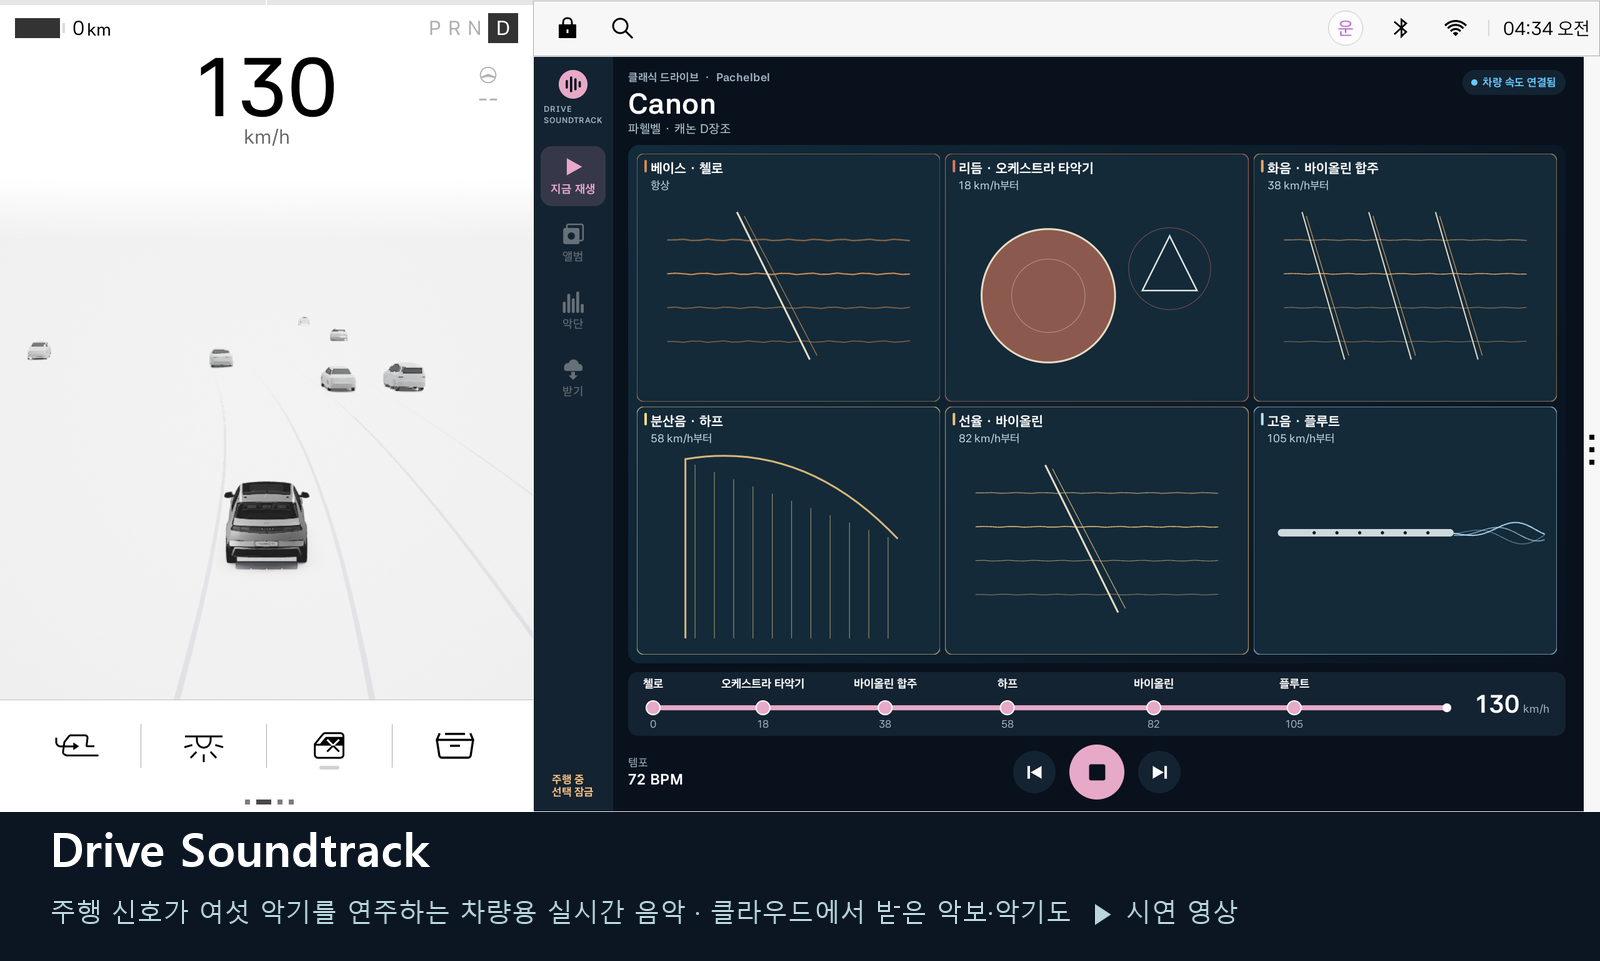
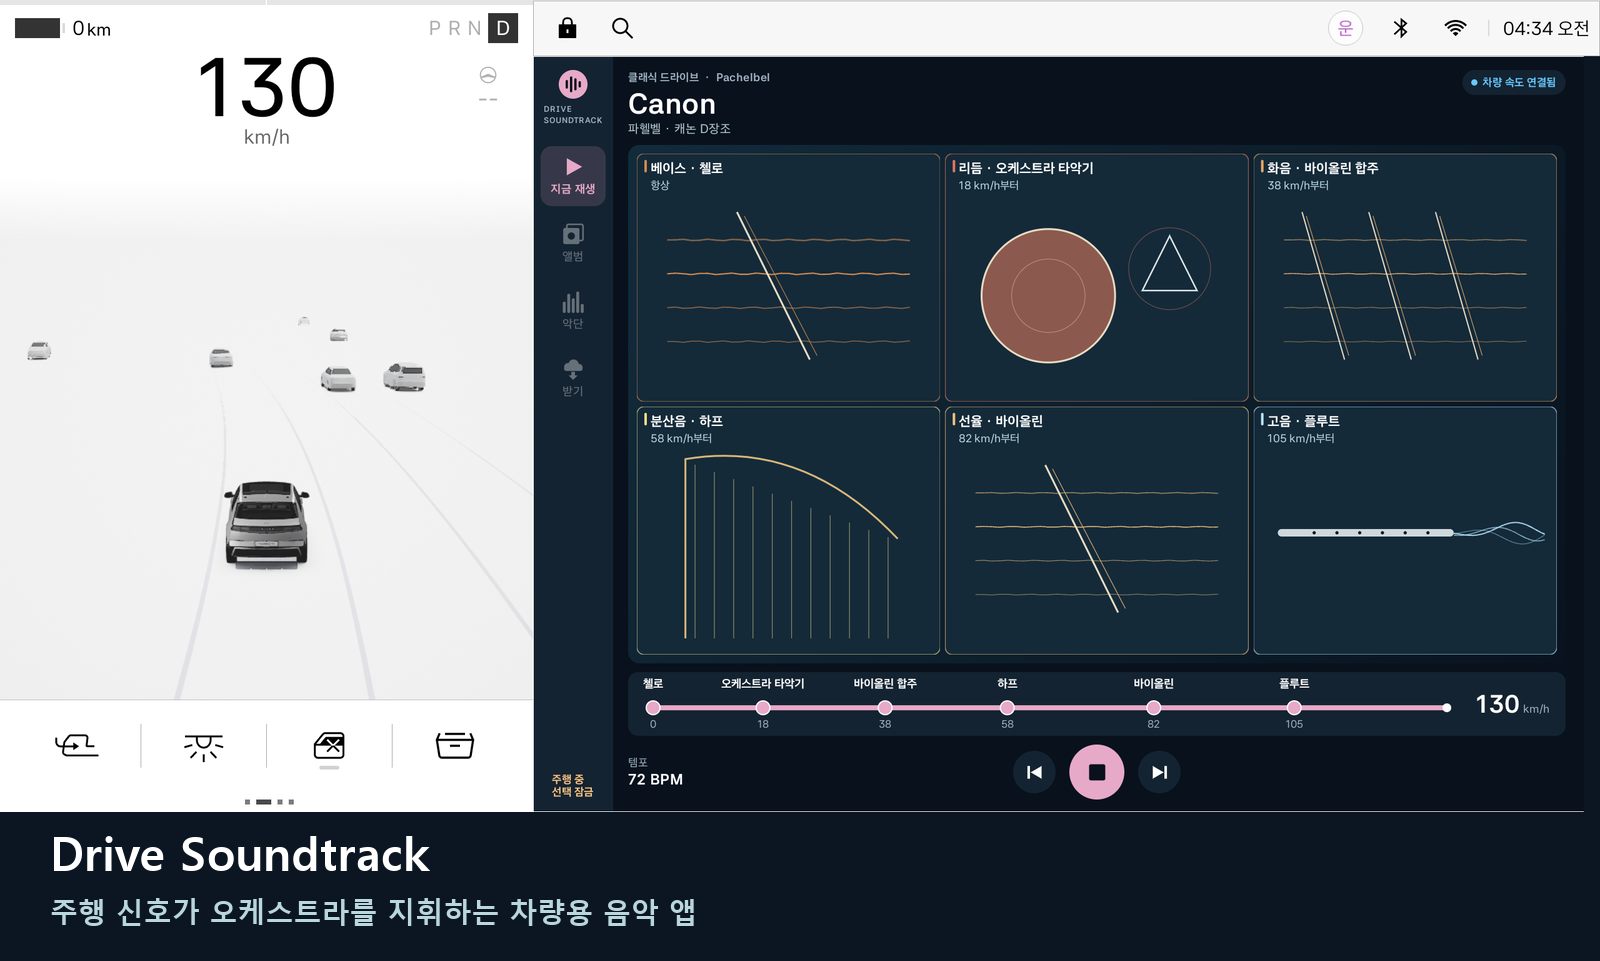
Korean wording: no particles after English titles, one voice (~합니다), Korean turn-signal labels, clearer messages; README note back with the build; Get video in the page menu; README thumbnail without the cut text

Changed region(s): [[0.9688, 0.0624, 1.0, 0.8429], [0.0312, 0.9365, 0.7812, 0.9677], [0.0312, 0.8741, 0.2812, 0.9053]]

diff --git a/app/src/main/kotlin/com/drivesoundtrack/app/ui/MainScreen.kt b/app/src/main/kotlin/com/drivesoundtrack/app/ui/MainScreen.kt
@@ -171,7 +171,7 @@ private fun NowPlaying(status: PlayerStatus, accent: Color, canConfigure: Boolea
     Column(Modifier.fillMaxSize().then(if (landscape) Modifier else Modifier.verticalScroll(rememberScrollState()))) {
         Row(verticalAlignment = Alignment.Top) {
             Column(Modifier.weight(1f)) {
-                Label(scene.piece?.let { "${Albums.names[status.album]}  ·  ${it.composer}" } ?: "${Albums.names[status.album]}  ·  오리지널 스코어",
+                Label(scene.piece?.let { "${Albums.names[status.album]}  ·  ${it.composer}" } ?: "${Albums.names[status.album]}  ·  Drive Soundtrack",
                     18.sp, Palette.Muted, bold = true)
                 Label(scene.name, 46.sp, Color.White, bold = true, modifier = Modifier.padding(top = 2.dp))
                 Label(scene.character, 20.sp, Palette.Genre)
@@ -197,7 +197,7 @@ private fun SignalPill(status: PlayerStatus) {
     val (text, color) = when {
         status.scenarioEnabled -> "시연 주행 중" to Palette.DemoSignal
         status.carAvailable -> "차량 속도 연결됨" to Palette.LiveSignal
-        else -> "데모 속도" to Palette.DemoSignal
+        else -> "시연 속도" to Palette.DemoSignal
     }
     Row(Modifier.background(Palette.Panel, RoundedCornerShape(20.dp)).padding(horizontal = 14.dp, vertical = 8.dp),
         verticalAlignment = Alignment.CenterVertically) {
@@ -258,7 +258,7 @@ private fun TransportBar(status: PlayerStatus, accent: Color, actions: PlayerAct
         }
         RoundButton(68.dp, Palette.Panel, "이전 곡", { actions.skip(-1) }) { skipIcon(Color.White, back = true) }
         Spacer(Modifier.width(22.dp))
-        RoundButton(88.dp, accent, if (status.playing) "사운드 끄기" else "재생", actions::togglePlay) {
+        RoundButton(88.dp, accent, if (status.playing) "정지" else "재생", actions::togglePlay) {
             if (status.playing) stopIcon(Palette.Background) else playIcon(Palette.Background)
         }
         Spacer(Modifier.width(22.dp))
@@ -298,7 +298,7 @@ private fun AlbumsPage(status: PlayerStatus, actions: PlayerActions, onEditTrack
         Column(Modifier.weight(1f).verticalScroll(rememberScrollState())) {
             if (tracks.isEmpty()) Label(
                 if (viewed == Albums.DOWNLOADED) "‘받기’에서 클라우드의 악보를 내려받으면 여기에 나옵니다."
-                else "오리지널·클래식 드라이브 앨범에서 ＋ 를 눌러 곡을 담으세요.", 19.sp, Palette.Muted,
+                else "오리지널·클래식 드라이브 앨범에서 ＋를 눌러 곡을 담으세요.", 19.sp, Palette.Muted,
                 modifier = Modifier.padding(vertical = 20.dp))
             for (i in tracks) {
                 val scene = Soundscapes.all[i]
@@ -412,7 +412,7 @@ private fun CloudPage(cloud: CloudState, landscape: Boolean, actions: PlayerActi
             Spacer(Modifier.height(20.dp))
             column("악기", "받으면 악단에서 고르기", instruments, Modifier.fillMaxWidth())
         }
-        Label("만들기·올리기는 웹 제작 플랫폼에서만 · 차에서는 내려받기만 합니다", 18.sp, Palette.Muted, modifier = Modifier.padding(top = 8.dp))
+        Label("만들기와 올리기는 웹 제작 플랫폼에서 하고, 차에서는 내려받기만 합니다", 18.sp, Palette.Muted, modifier = Modifier.padding(top = 8.dp))
     }
 }
 
@@ -488,9 +488,9 @@ private fun BandPage(status: PlayerStatus, requestedMode: Int, accent: Color, la
                 Label("악단", 34.sp, Color.White, bold = true)
                 Label(when {
                     band -> "모든 클래식 곡이 이 악단으로 연주됩니다. 곡마다 따로 바꾼 곡은 그대로 둡니다."
-                    status.ownInstruments -> "${scene.name}만 따로 편성했습니다."
-                    status.band.size == 6 -> "${scene.name}은 지금 나만의 악단을 따릅니다. 바꾸면 이 곡만 달라집니다."
-                    else -> "${scene.name}은 지금 곡의 추천 편성입니다. 바꾸면 이 곡만 달라집니다."
+                    status.ownInstruments -> "「${scene.name}」 · 이 곡만 따로 편성했습니다."
+                    status.band.size == 6 -> "「${scene.name}」 · 지금 나만의 악단을 따릅니다. 바꾸면 이 곡만 달라집니다."
+                    else -> "「${scene.name}」 · 지금 곡의 추천 편성입니다. 바꾸면 이 곡만 달라집니다."
                 }, 18.sp, Palette.Muted)
             }
             // Up here, next to the band/track switch, so the six presets fit on one line.
@@ -498,7 +498,7 @@ private fun BandPage(status: PlayerStatus, requestedMode: Int, accent: Color, la
                 Text(if (band) "↺  곡별 추천으로" else "↺  악단 따르기", fontSize = 18.sp, color = Palette.Muted)
             }
             Spacer(Modifier.width(12.dp))
-            Segmented(listOf("나만의 악단", if (trackPossible) "이 곡만" else "이 곡만 (클래식)"), if (band) 0 else 1,
+            Segmented(listOf("나만의 악단", if (trackPossible) "이 곡만" else "이 곡만 (클래식 곡)"), if (band) 0 else 1,
                 Modifier.width(420.dp), enabled = { it == 0 || trackPossible }) { onMode(if (it == 0) EDIT_BAND else EDIT_TRACK) }
         }
         Row(Modifier.fillMaxWidth().padding(top = 16.dp), verticalAlignment = Alignment.CenterVertically) {
@@ -534,10 +534,10 @@ private fun BandPage(status: PlayerStatus, requestedMode: Int, accent: Color, la
                 Row(Modifier.padding(top = 4.dp, bottom = 12.dp), verticalAlignment = Alignment.CenterVertically) {
                     if (status.playing) {
                         Box(Modifier.size(10.dp).background(accent, CircleShape)); Spacer(Modifier.width(8.dp))
-                        Label(if (stage == 0) "베이스는 늘 들립니다. 고르면 바로 바뀝니다." else "지금 이 단계를 미리 들려주고 있어요. 고르면 바로 바뀝니다.",
+                        Label(if (stage == 0) "베이스는 늘 들립니다. 고르면 바로 바뀝니다." else "지금 이 단계를 미리 들려줍니다. 고르면 바로 바뀝니다.",
                             19.sp, accent)
                     } else {
-                        Label("재생을 켜면 고르는 악기를 바로 들을 수 있어요.", 19.sp, Palette.Muted, modifier = Modifier.weight(1f, fill = false))
+                        Label("재생을 켜면 고르는 악기를 바로 들을 수 있습니다.", 19.sp, Palette.Muted, modifier = Modifier.weight(1f, fill = false))
                         Spacer(Modifier.width(12.dp))
                         Button(actions::togglePlay, shape = RoundedCornerShape(12.dp)) { Text("▶  재생", fontSize = 19.sp, color = Palette.Background) }
                     }
@@ -705,7 +705,7 @@ private fun ColumnScope.DemoControls(status: PlayerStatus, actions: PlayerAction
     Slider(value = pedal, onValueChange = { pedal = it; actions.demoAccelerator(it.roundToInt().toDouble()) }, valueRange = 0f..100f)
     Row(Modifier.fillMaxWidth()) {
         DemoToggle("브레이크", brake, Modifier.weight(1f)) { brake = !brake; actions.demoBrake(brake) }
-        DemoToggle("좌측 방향", turn, Modifier.weight(1f)) { turn = !turn; actions.demoLeftTurn(turn) }
+        DemoToggle("왼쪽 방향지시등", turn, Modifier.weight(1f)) { turn = !turn; actions.demoLeftTurn(turn) }
         DemoToggle("와이퍼", wiper, Modifier.weight(1f)) { wiper = !wiper; actions.demoWiper(wiper) }
     }
 }

diff --git a/docs/index.html b/docs/index.html
@@ -74,7 +74,7 @@
   <header class="topbar">
     <div class="wrap">
       <a class="brand" href="#top"><span class="brand-mark">♫</span> DRIVE SOUNDTRACK</a>
-      <nav class="toplinks" aria-label="페이지 메뉴"><a href="#demo">주행 시연</a><a href="#instruments">악기 구성</a><a href="#band">곡과 악단</a><a href="#steering">핸들</a><a href="#scenario">정차 시연</a><a href="#community">로드맵</a><a href="#download">설치</a></nav>
+      <nav class="toplinks" aria-label="페이지 메뉴"><a href="#cloud">받기 시연</a><a href="#demo">주행 시연</a><a href="#instruments">악기 구성</a><a href="#band">곡과 악단</a><a href="#steering">핸들</a><a href="#scenario">정차 시연</a><a href="#community">로드맵</a><a href="#download">설치</a></nav>
     </div>
   </header>
   <main class="wrap" id="top">
@@ -136,7 +136,7 @@
 
     <section class="section" id="scenario">
       <div class="section-head"><div><p class="eyebrow">In-app demo · About 100 seconds</p><h2>정차 중에 미리 들어 보는 시연 주행</h2></div><p class="muted">앱의 시연 버튼으로 0→30→50→70→95→130→0 km/h를 재생합니다. 곡은 파헬벨 「캐논」입니다. 아래 버튼으로 속도 구간을 바로 들어 볼 수 있습니다.</p></div>
-      <div class="video-shell"><video id="demoVideo" controls playsinline preload="metadata" poster="pulse-harmony-live-poster.png" aria-label="실제 앱 화면과 같은 테이크의 앱 소리로 만든 약 100초 시연 영상"><source src="pulse-harmony-live-demo.mp4" type="video/mp4">브라우저에서 영상을 재생할 수 없습니다.</video></div>
+      <div class="video-shell"><video id="demoVideo" controls playsinline preload="metadata" poster="pulse-harmony-live-poster.png" aria-label="정차 중 앱 시연 주행으로 「캐논」을 0에서 130 km/h까지 연주한 약 105초 영상"><source src="pulse-harmony-live-demo.mp4" type="video/mp4">브라우저에서 영상을 재생할 수 없습니다.</video></div>
       <nav class="chapters" aria-label="영상 구간 바로 보기"><button data-seek="0">정차 · 베이스</button><button data-seek="14">30 km/h</button><button data-seek="26">50 km/h</button><button data-seek="38">70 km/h</button><button data-seek="50">95 km/h</button><button data-seek="62">130 km/h</button><button data-seek="80">감속 중간</button><button data-seek="98">다시 정차</button></nav>
       <p class="recording-note">Pleos Connect 전체 화면을 녹화한 뒤 오른쪽 앱 영역만 잘랐습니다. 원본의 왼쪽 3D 차량은 정차·P 상태입니다. 소리는 같은 재생 중 앱이 AudioTrack에 전달한 PCM이며, 속도는 앱 내부 시연 입력입니다. 실제 도로 주행은 아닙니다.</p>
       <details class="source-view"><summary>Pleos 전체 화면 원본 보기</summary><img src="pleos-full-screen-context.png" loading="lazy" alt="왼쪽은 정차·P 상태의 Pleos 3D 차량, 오른쪽은 주행 시연 속도를 표시한 Drive Soundtrack 앱"><p>한 화면을 녹화한 뒤 오른쪽 앱 부분을 잘라 본편에 사용했습니다. 왼쪽 차량 표시는 앱 내부 시연 속도와 연동되지 않습니다.</p></details>

diff --git a/app/src/main/kotlin/com/drivesoundtrack/app/MainActivity.kt b/app/src/main/kotlin/com/drivesoundtrack/app/MainActivity.kt
@@ -154,10 +154,10 @@ class MainActivity : ComponentActivity(), PlayerActions {
                     {
                         send(SoundtrackService.LIBRARY_CHANGED)
                         cloud.copy(downloading = null, installed = CloudLibrary.installed(root),
-                            message = if (item.isScore) "「${item.title}」을 받았습니다. 앨범의 ‘받은 곡’에 있어요."
-                            else "「${item.title}」을 받았습니다. 악단에서 고를 수 있어요.")
+                            message = if (item.isScore) "「${item.title}」 받기 완료. 앨범의 ‘받은 곡’에 있습니다."
+                            else "「${item.title}」 받기 완료. 악단에서 고를 수 있습니다.")
                     },
-                    { cloud.copy(downloading = null, failed = true, message = "「${item.title}」을 받지 못했습니다. 다시 시도해 주세요.") })
+                    { cloud.copy(downloading = null, failed = true, message = "「${item.title}」 받기 실패. 다시 시도해 주세요.") })
             }
         }
     }

diff --git a/app/src/main/kotlin/com/drivesoundtrack/app/ui/InstrumentStage.kt b/app/src/main/kotlin/com/drivesoundtrack/app/ui/InstrumentStage.kt
@@ -241,7 +241,7 @@ private class StageScene(
     }
 
     private fun melody(x: Float, y: Float, w: Float, h: Float) {
-        if (s.turn != 0) label(if (s.turn < 0) "◀  LEFT · 하행" else "RIGHT · 상행  ▶", x + dp(14f), y + h * 0.39f, 16f, accent, bold = true)
+        if (s.turn != 0) label(if (s.turn < 0) "◀  왼쪽 · 내려가는 두 음" else "오른쪽 · 올라가는 두 음  ▶", x + dp(14f), y + h * 0.39f, 16f, accent, bold = true)
         for (line in 0..2) {
             val path = Path()
             val baseY = y + h * (0.51f + line * 0.12f)

diff --git a/app/src/test/kotlin/com/drivesoundtrack/app/ui/ScreenshotTest.kt b/app/src/test/kotlin/com/drivesoundtrack/app/ui/ScreenshotTest.kt
@@ -118,7 +118,7 @@ class ScreenshotTest {
         for (item in items) CloudLibrary.download(item, root, base)
         CloudLibrary.load(root)
         cloud = cloud.copy(downloading = null, installed = CloudLibrary.installed(root),
-            message = "「Largo」을 받았습니다. 앨범의 ‘받은 곡’에 있어요.")
+            message = "「Largo」 받기 완료. 앨범의 ‘받은 곡’에 있습니다.")
         shoot("9-get-downloaded")
 
         val largo = Soundscapes.all.indexOfFirst { it.cloudId == "largo" }

diff --git a/README.md b/README.md
@@ -25,11 +25,11 @@
 .\gradlew.bat :app:testDebugUnitTest    # 단위 테스트 (화음·클릭·조향·악보·악기 음량·앨범·클라우드 받기)
 ```
 
+release APK를 다시 빌드하려면 저장소에 없는 서명키가 필요합니다. → [빌드·테스트와 검증 범위](https://github.com/hoyadong1/DriveSoundtrack/wiki/Development)
+
 ## 클라우드 악보·악기
 
 악보와 악기는 차 밖에서 만들고, 차 앱은 받아서 연주만 합니다. 예시 클라우드는 GitHub Pages의 [`docs/cloud`](docs/cloud)이며 드보르자크 「라르고」 악보, VSCO 2 CE 녹음을 올려 만든 트롬본, 음색을 디자인한 핸드팬이 있습니다. 팩 형식과 만드는 도구는 [`tools/cloud`](tools/cloud/README.md)에 있습니다. [받기 시연 영상](https://hoyadong1.github.io/DriveSoundtrack/cloud-demo.mp4)은 Pleos 에뮬레이터에서 실제로 내려받고 악단에 넣어 연주한 녹화입니다.
-
-release APK를 다시 빌드하려면 저장소에 없는 서명키가 필요합니다. → [빌드·테스트와 검증 범위](https://github.com/hoyadong1/DriveSoundtrack/wiki/Development)
 
 ## 더 보기
 
